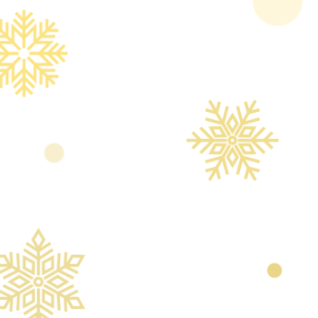
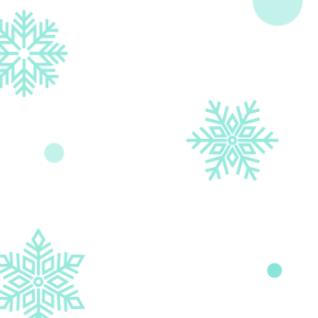
offer bg

diff --git a/css/seasons.css b/css/seasons.css
@@ -32,3 +32,6 @@ body{
 .pv-menu-bg{
 				background: #113544 !important;
 }
+.plan-duration.offer{
+  background: url('../img/offer_price_bg.png') no-repeat top right !important;
+}
